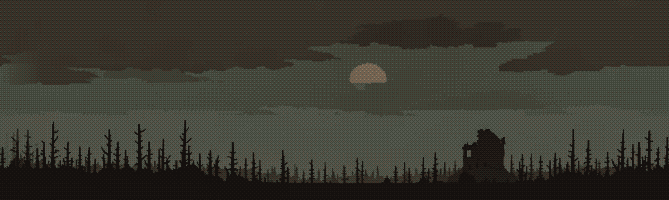
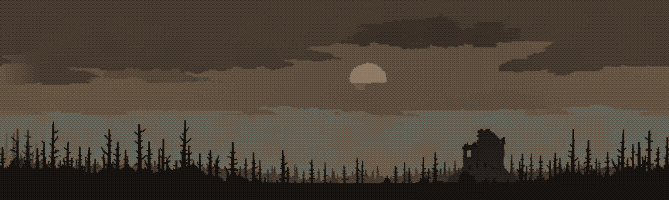
Močál: hloubka a perspektiva (vzdálená země, dvě řady objektů, mlha), světlejší paleta
Claude-Session: https://claude.ai/code/session_015jCRZS7ASg3pqxo763VEwg

diff --git a/tools/build_bg.py b/tools/build_bg.py
@@ -21,7 +21,8 @@ OBJ_H = 78       # výška největšího objektu v prostřední vrstvě (malé =
 COLORS = 40
 # Ponurá paleta: bláto, popel, špinavá oliva, zaschlá krev, kost
 GRIM = ["14100e", "1e1814", "29211b", "352a22", "42352a", "514133", "62503f", "75624f",
-        "222620", "30352c", "40463a", "55594f", "36181a", "4e201c", "642a22", "8c7f68"]
+        "8a7660", "222620", "30352c", "40463a", "55594f", "6b6e60", "36181a", "4e201c",
+        "642a22", "7e3a2a", "8c7f68", "a89a7e", "4a4a52", "686470"]
 # výřez země z obrázku (zlomky šířky/výšky), aby nebyly vidět kořeny na okrajích
 GROUND_CROP = {"swamp": (0.30, 0.18, 0.74, 1.0)}
 
@@ -35,8 +36,8 @@ def grim(rgb):
     a = rgb.astype(float)
     # ztlumit sytost a jas
     lum = a.mean(axis=2, keepdims=True)
-    a = lum + (a - lum) * 0.45
-    a *= 0.8
+    a = lum + (a - lum) * 0.62
+    a *= 0.97
     h, w = a.shape[:2]
     a += BAYER[np.arange(h)[:, None] % 4, np.arange(w)[None, :] % 4][..., None] * 22.0
     d = ((a[:, :, None, :] - pal[None, None, :, :]) ** 2).sum(axis=3)
